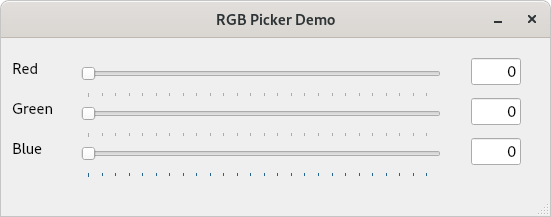
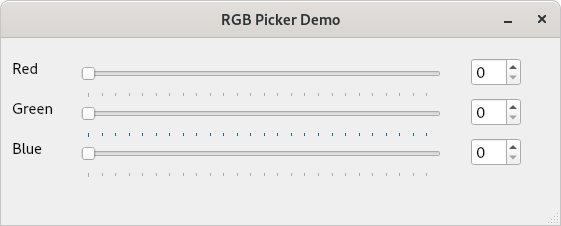
Adding rgb-picker-demo-2 and README.md

diff --git a/signals-slots/rgb-picker/rgb-picker-demo-2/README.md b/signals-slots/rgb-picker/rgb-picker-demo-2/README.md
@@ -2,3 +2,67 @@
 
 This is the second step in the rgb-picker-demo. It is based rgb-picker-demo-1
 with the addition of a simple UI for the RGB picker interface.
+
+There are no code changes in this step as all changes have been made in Qt Designer. The only user owned
+file that should have changed is MainWindow.ui
+
+Using Qt Designer I have created a simple UI for our RGB picker demo:-
+
+![rgb-picker-demo](../docs/screenshots/rgb-picker-demo-2-001.png)
+
+There are 3 Qt widgets for each of the colour components
+
+- A "QLabel" for the name of the colour component (e.g "Red", "Green", "Blue")
+
+- A "QSlider" to allow the user to choose the value for each colour component. <br>
+  Using the properties editor the min and max values for each QSlider has been set to 0 and 255 respectively.
+
+- A "QSpinBox" to display the chosen value for each colour component. <br>
+  Using the propeties editor the min and max values for each QSpinBox has been set to 0 and 255 respectively.
+
+For this step we are going to connect some signals and slots using Qt Designers Signal and Slot Editor.
+
+#### To switch to the Signal & Slot Editor click the second button on the toolbar
+![rgb-picker-demo](../docs/screenshots/rgb-picker-demo-2-002.png)
+
+Once in signal and slot mode we can make connections between Widgets by dragging with the mouse. We would like the value
+of each of the QSpinBox widgets to automatically update when the user changes the corresponding slider value.
+
+To do this we can click on the QSlider we wish to connect and (while the mouse button is held down) drag the mouse pointer
+over the widget we would like to connect to (in this case a QSpinBox) and release the mouse.
+
+![rgb-picker-demo](../docs/screenshots/rgb-picker-demo-2-003.png)
+
+Once the mouse is released the "Configure Connection" dialog box will open. Qt will display a list of available signals from the source widget (QSlider)
+and slots on the target widget (QSpinBox) that we can choose to connect.
+
+**Note:** If any of the entries are greyed out it means that the connection between that signal and slot is not compatible (e.g a signal emmiting a integer value cannot be connected directly to a slot that expects a String value)
+
+When the user changes the value of a QSlider it will emit the "valueChanged" signal with an integer value corresponding to the slider value (in our case this will be in the range 0 -255).
+We'd like our QSpinBox widgets to show this value we can connect the signe to its "setValue" slot.
+
+![rgb-picker-demo](../docs/screenshots/rgb-picker-demo-2-004.png)
+
+We will make the same connections for each of our QSlider and QSpinBox pairs (red, green, blue) and once this is complete we should see the following connections in Qt Designer.
+
+![rgb-picker-demo](../docs/screenshots/rgb-picker-demo-2-005.png)
+
+After each of the signal/slot connections have been completed for each of the RGB pairs we should be able to run the application.
+
+![rgb-picker-demo](../docs/screenshots/rgb-picker-demo-2-006.png)
+
+If the steps have been followed correctly you should see the values in each QSpinBox update when its corresponding QSlider is changed.
+
+In this example we used Qt Designer to make simple signal/slot connections. Note that no changes to the code from rgb-picker-demo-2 were required as Qt took care of generating the connections for us.
+
+If you are curious you can take a look at the ```ui_MainWindow.h``` that the Qt Meta Object Compiler generates to see how Qt makes the connections behinds the scenes (We will be using this technique in a later demo to handle more complex connections)
+
+```C++
+QObject::connect(sliderRedValue, SIGNAL(valueChanged(int)), spinRedValue, SLOT(setValue(int)));
+QObject::connect(sliderGreenValue, SIGNAL(valueChanged(int)), spinGreenValue, SLOT(setValue(int)));
+QObject::connect(sliderBlueValue, SIGNAL(valueChanged(int)), spinBlueValue, SLOT(setValue(int)));
+```
+
+**Note:** You might notice that when you change the value of a QSpinBox only its value is updated, it would be nice if the slider updated too. We could connect a signal
+from the QSpinBox back to the QSlider to fix this in the same way we did above, but I'd like to leave this until the next step so I can demonstrate the second method of connecting
+signals and slots.
